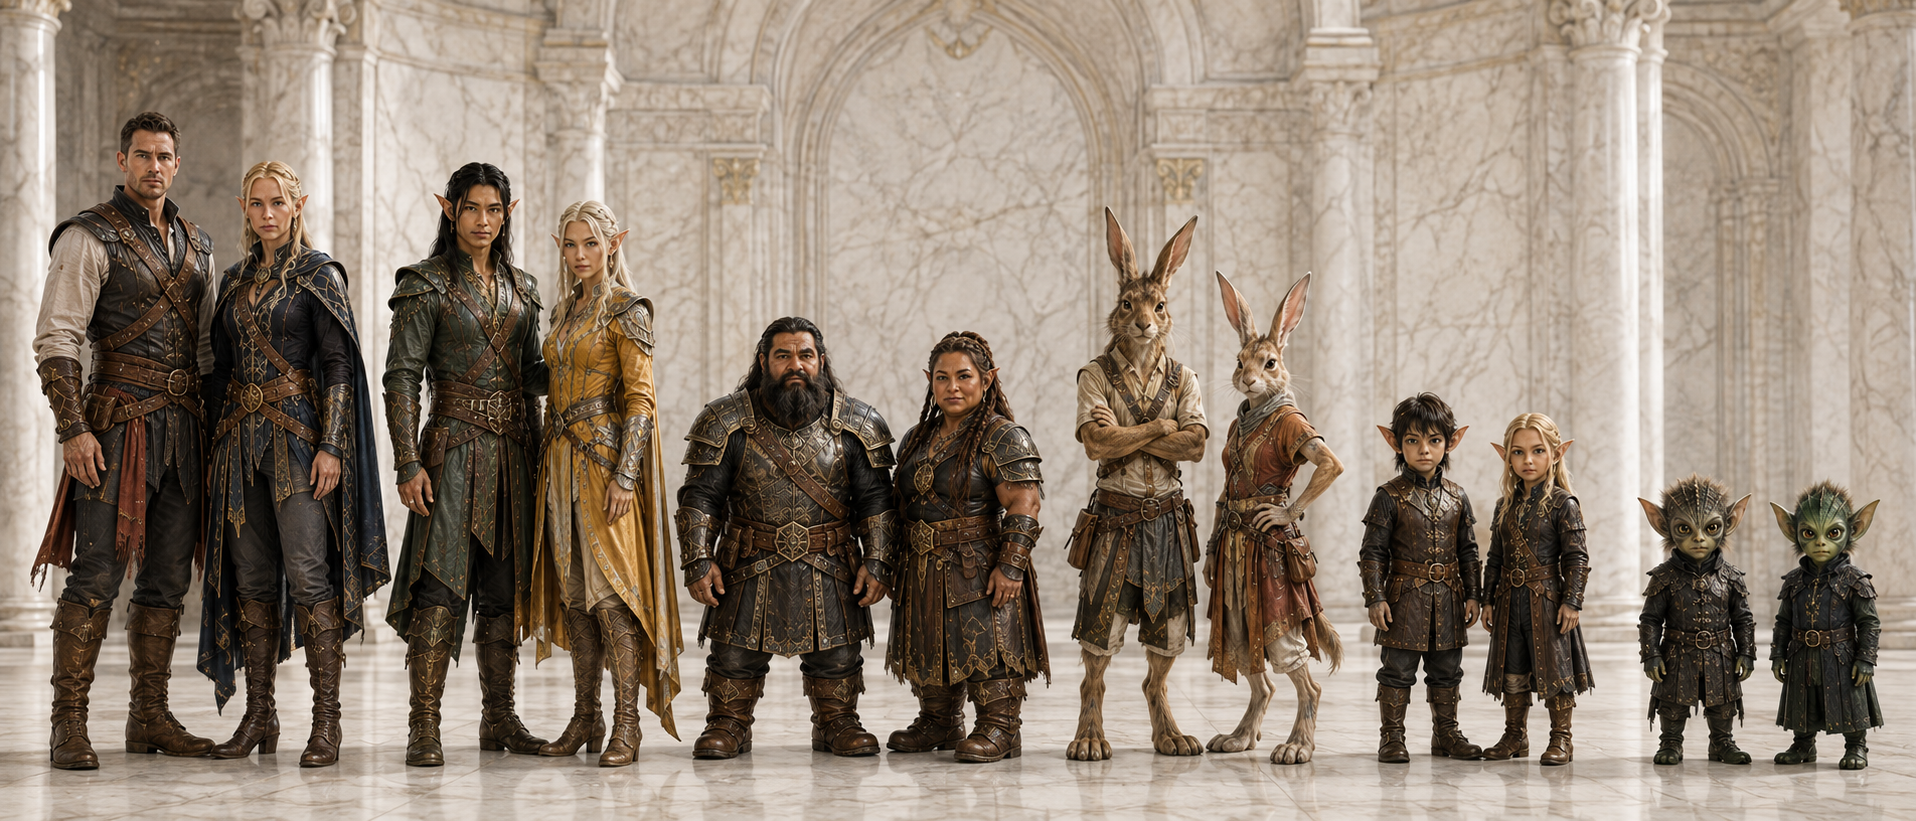
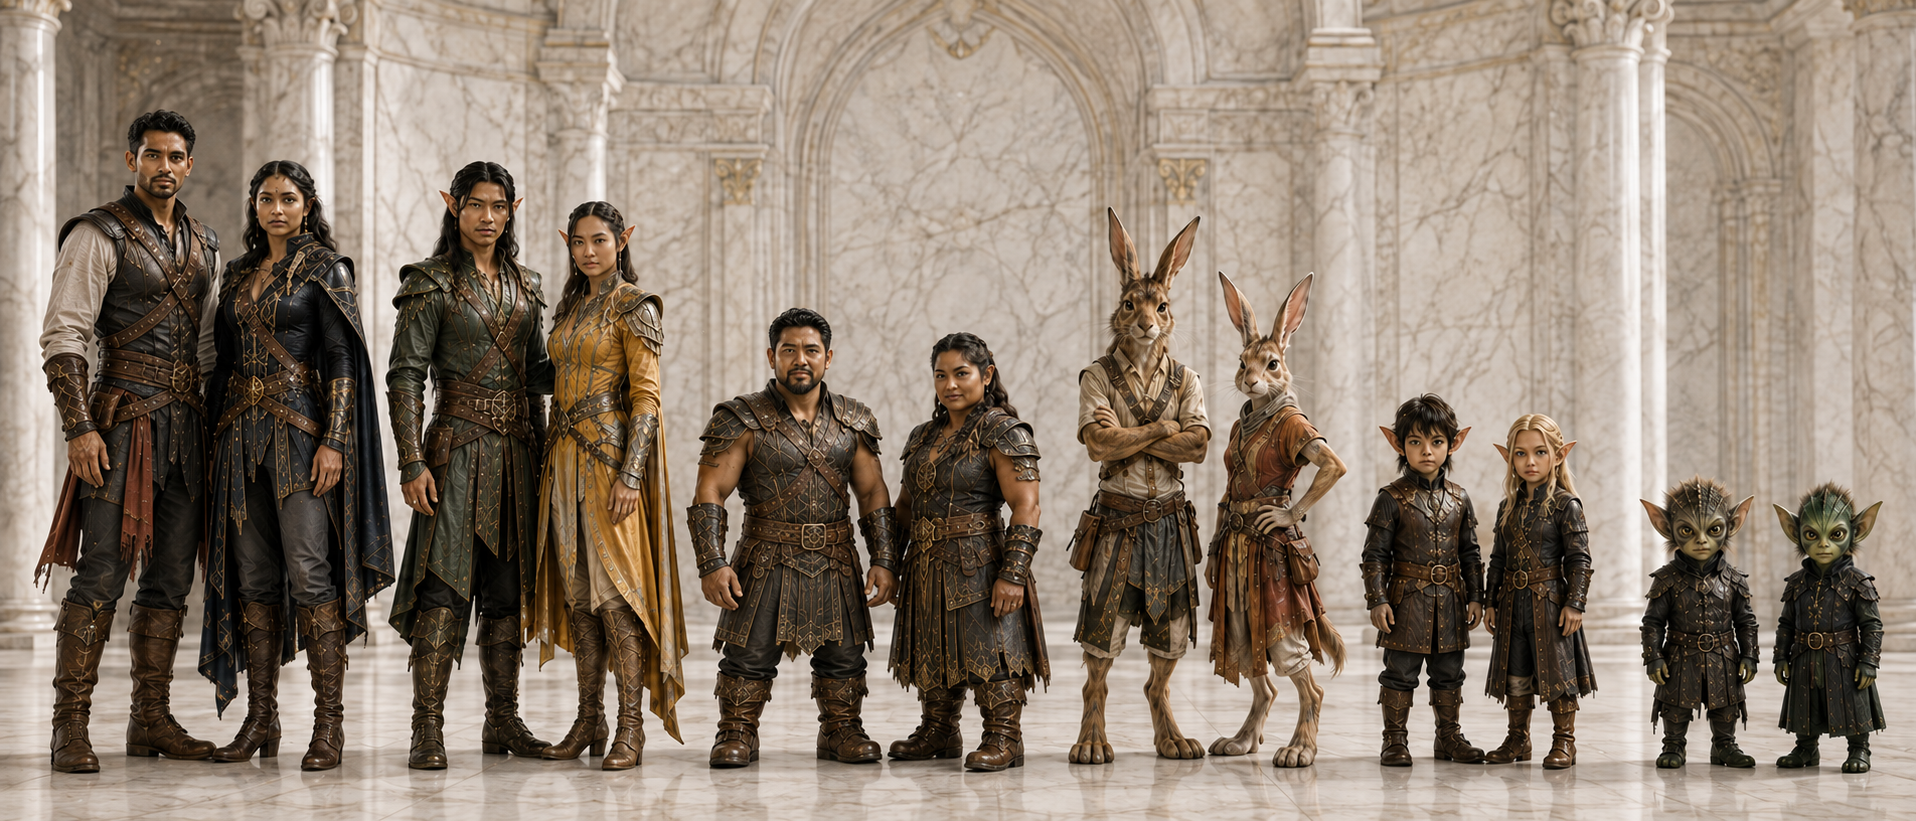
corrected the humaniki-heights.png so human female has round ears and duarven couple has round ears and are muscular.

diff --git a/src/app/api/data-assets/[category]/[filename]/route.ts b/src/app/api/data-assets/[category]/[filename]/route.ts
@@ -24,7 +24,10 @@ export async function GET(
     const bytes = await readFile(path.join(process.cwd(), directory, filename));
     const extension = path.extname(filename).toLowerCase();
     const contentType = extension === '.png' ? 'image/png' : extension === '.jpg' || extension === '.jpeg' ? 'image/jpeg' : extension === '.webp' ? 'image/webp' : extension === '.pdf' ? 'application/pdf' : 'application/octet-stream';
-    return new NextResponse(bytes, { headers: { 'Content-Type': contentType, 'Cache-Control': 'public, max-age=31536000, immutable' } });
+    const cacheControl = process.env.NODE_ENV === 'production'
+      ? 'public, max-age=31536000, immutable'
+      : 'no-store, no-cache, must-revalidate, proxy-revalidate';
+    return new NextResponse(bytes, { headers: { 'Content-Type': contentType, 'Cache-Control': cacheControl } });
   } catch {
     return new NextResponse(null, { status: 404 });
   }
